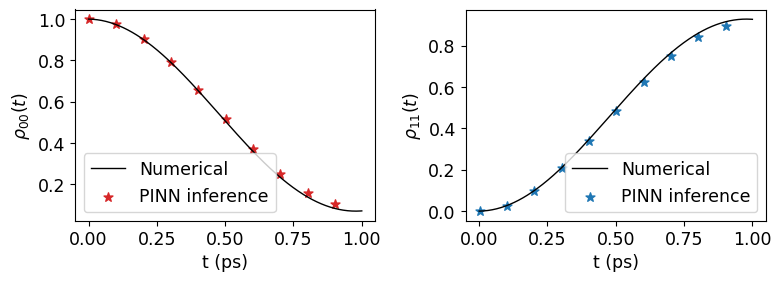
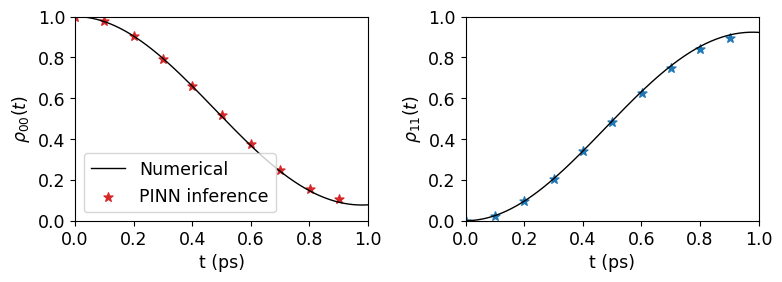
Reproducible version for Manuscript: Learning NZ Equation using PINN

diff --git a/visualizations.py b/visualizations.py
@@ -142,11 +142,15 @@ def plot_test(times, rho_diag, t_test, results):
     axes[0].scatter(t_test, results[:, 0], label="PINN inference", color="tab:red", marker='*', s=45)
     axes[0].set_xlabel("t (ps)")
     axes[0].set_ylabel(r"$\rho_{00} (t)$")
+    axes[0].set_ylim(0,1)
+    axes[0].set_xlim(0,1)
     axes[0].legend(loc='lower left')
 
     axes[1].plot(times, rho_diag[:,1], label="Numerical", color="black", linewidth=1)
     axes[1].scatter(t_test, 1-results[:, 0], label="PINN inference", color="tab:blue", marker='*', s=45)
     axes[1].set_xlabel("t (ps)")
+    axes[1].set_ylim(0,1)
+    axes[1].set_xlim(0,1)
     axes[1].set_ylabel(r"$\rho_{11} (t)$")
 
     plt.tight_layout()
